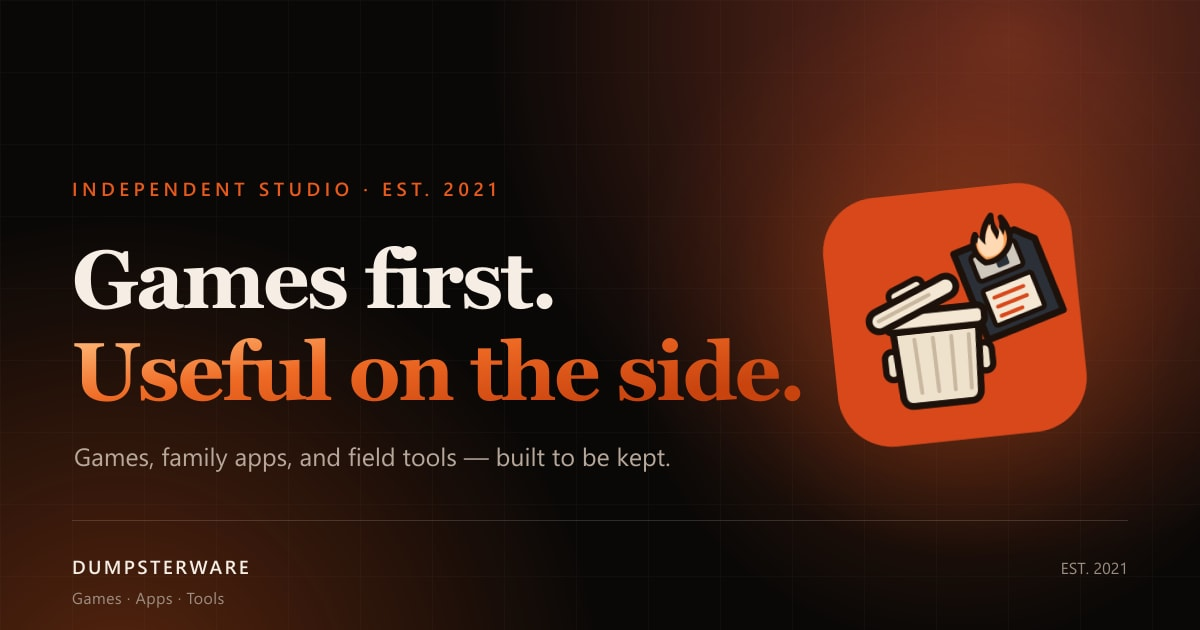
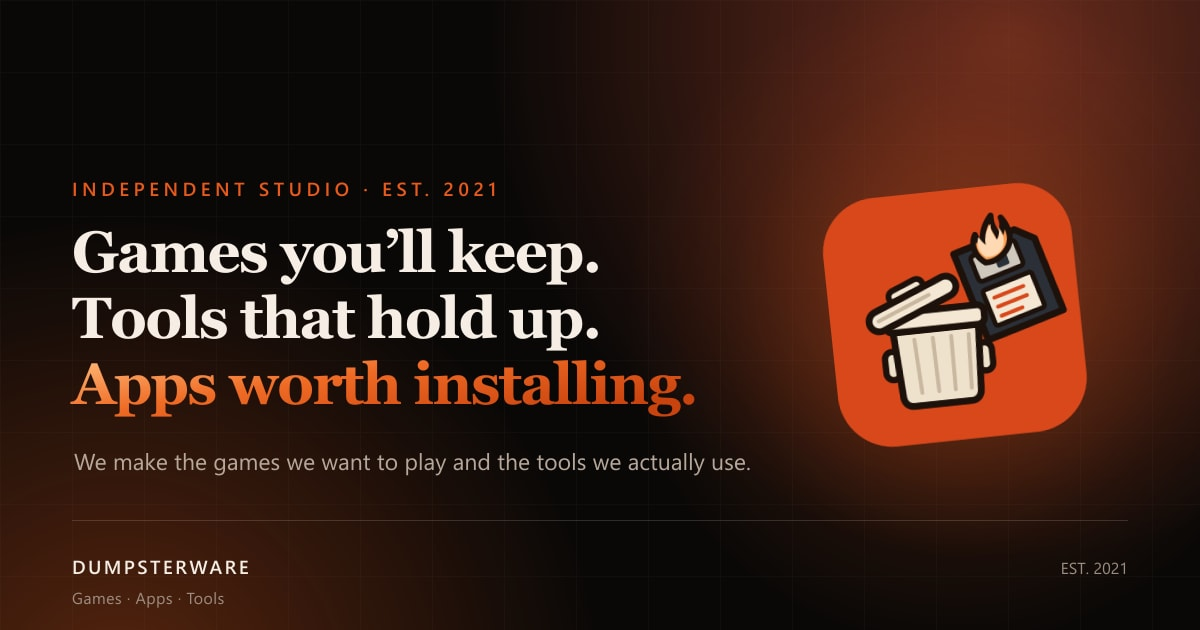
Refresh the studio positioning and division headlines

Changed region(s): [[0.0617, 0.3619, 0.6783, 0.6635], [0.0617, 0.6937, 0.6167, 0.754]]

diff --git a/home/index.html b/home/index.html
@@ -3,8 +3,8 @@
 <head>
   <meta charset="utf-8">
   <meta name="viewport" content="width=device-width, initial-scale=1">
-  <title>DumpsterWare — Games first, useful on the side</title>
-  <meta name="description" content="DumpsterWare is a small independent studio. Games first, with family apps and field tools when a silly idea turns out to be useful.">
+  <title>DumpsterWare — Games you'll keep. Tools that hold up.</title>
+  <meta name="description" content="DumpsterWare is a small independent studio making games you'll keep, tools that hold up, and apps worth installing.">
   <meta name="color-scheme" content="dark">
   <meta name="theme-color" content="#0a0807">
   <link rel="canonical" href="https://esotericryoushi.github.io/DumpsterWare.com/home/">
@@ -17,18 +17,18 @@
   <meta property="og:type" content="website">
   <meta property="og:site_name" content="DumpsterWare">
   <meta property="og:url" content="https://esotericryoushi.github.io/DumpsterWare.com/home/">
-  <meta property="og:title" content="DumpsterWare — Games first, useful on the side">
-  <meta property="og:description" content="A small independent studio. Games first, with apps and tools when they're useful.">
+  <meta property="og:title" content="DumpsterWare — Games you'll keep. Tools that hold up.">
+  <meta property="og:description" content="A small independent studio making games you'll keep, tools that hold up, and apps worth installing.">
   <meta property="og:image" content="https://esotericryoushi.github.io/DumpsterWare.com/assets/img/og-default.jpg">
   <meta property="og:image:type" content="image/jpeg">
   <meta property="og:image:width" content="1200">
   <meta property="og:image:height" content="630">
-  <meta property="og:image:alt" content="DumpsterWare — Games first. Useful on the side.">
+  <meta property="og:image:alt" content="DumpsterWare — Games you'll keep. Tools that hold up. Apps worth installing.">
   <meta name="twitter:card" content="summary_large_image">
-  <meta name="twitter:title" content="DumpsterWare — Games first, useful on the side">
-  <meta name="twitter:description" content="A small independent studio. Games first, with apps and tools when they're useful.">
+  <meta name="twitter:title" content="DumpsterWare — Games you'll keep. Tools that hold up.">
+  <meta name="twitter:description" content="A small independent studio making games you'll keep, tools that hold up, and apps worth installing.">
   <meta name="twitter:image" content="https://esotericryoushi.github.io/DumpsterWare.com/assets/img/og-default.jpg">
-  <meta name="twitter:image:alt" content="DumpsterWare — Games first. Useful on the side.">
+  <meta name="twitter:image:alt" content="DumpsterWare — Games you'll keep. Tools that hold up. Apps worth installing.">
 
   <script type="application/ld+json">
     {
@@ -37,7 +37,7 @@
       "name": "DumpsterWare",
       "url": "https://esotericryoushi.github.io/DumpsterWare.com/home/",
       "logo": "https://esotericryoushi.github.io/DumpsterWare.com/assets/img/logo-512.png",
-      "description": "A small independent studio. Games first, with family apps and field tools when they're useful.",
+      "description": "A small independent studio making games you'll keep, tools that hold up, and apps worth installing.",
       "foundingDate": "2021",
       "email": "DumpsterWare@gmail.com",
       "sameAs": ["https://github.com/EsotericRyoushi"]
@@ -79,8 +79,8 @@
       <div class="wrap hero-grid">
         <div class="hero-copy reveal">
           <p class="eyebrow"><span class="pulse" aria-hidden="true"></span>Independent studio · Est. 2021</p>
-          <h1>Games first.<br> <span class="grad">Useful on the side.</span></h1>
-          <p class="lede">DumpsterWare is a small studio that makes games because that's the fun part — and apps and tools when a silly idea turns out to be useful.</p>
+          <h1 class="hero-three">Games you'll keep.<br> Tools that hold up.<br> <span class="grad h1-kicker">Apps worth installing.</span></h1>
+          <p class="lede">We make the games we want to play and the tools we actually use — then share them with everyone else.</p>
           <div class="actions">
             <a class="btn btn-primary" href="#studio">
               Meet the studio
@@ -95,7 +95,7 @@
             <img src="../assets/img/icon-games.svg" alt="" width="46" height="46" loading="lazy" decoding="async">
             <span>
               <strong>Games</strong>
-              <small>Life-sim sandboxes with no finish line</small>
+              <small>Games worth a dumpster dive</small>
             </span>
             <span class="go">Visit
               <svg viewBox="0 0 20 20" aria-hidden="true"><path d="M4 10h11M11 5l5 5-5 5" fill="none" stroke="currentColor" stroke-width="2" stroke-linecap="round" stroke-linejoin="round"/></svg>
@@ -105,7 +105,7 @@
             <img src="../assets/img/app-are-we-there-yet.svg" alt="" width="46" height="46" loading="lazy" decoding="async">
             <span>
               <strong>Apps</strong>
-              <small>Family apps for the road and the kitchen table</small>
+              <small>Apps from the &ldquo;good dumpster&rdquo;</small>
             </span>
             <span class="go">Visit
               <svg viewBox="0 0 20 20" aria-hidden="true"><path d="M4 10h11M11 5l5 5-5 5" fill="none" stroke="currentColor" stroke-width="2" stroke-linecap="round" stroke-linejoin="round"/></svg>
@@ -115,7 +115,7 @@
             <img src="../assets/img/icon-tools.svg" alt="" width="46" height="46" loading="lazy" decoding="async">
             <span>
               <strong>Tools</strong>
-              <small>Field tools for the trades</small>
+              <small>Tools for dirty hands and clean money</small>
             </span>
             <span class="go">Visit
               <svg viewBox="0 0 20 20" aria-hidden="true"><path d="M4 10h11M11 5l5 5-5 5" fill="none" stroke="currentColor" stroke-width="2" stroke-linecap="round" stroke-linejoin="round"/></svg>

diff --git a/apps/index.html b/apps/index.html
@@ -65,7 +65,7 @@
       <div class="wrap hero-grid">
         <div class="hero-copy reveal">
           <p class="eyebrow"><span class="pulse" aria-hidden="true"></span>DumpsterWare Apps</p>
-          <h1>Apps for the<br> <span class="grad">back seat.</span></h1>
+          <h1 class="compact">We build what we'd use.<br> <span class="grad">Then we use it.</span></h1>
           <p class="lede">Family apps for the road, the kitchen table, and everywhere the signal drops. Built to be handed to a kid without a manual.</p>
           <div class="actions">
             <a class="btn btn-primary" href="#are-we-there-yet">

diff --git a/tools/index.html b/tools/index.html
@@ -65,7 +65,7 @@
       <div class="wrap hero-grid">
         <div class="hero-copy reveal">
           <p class="eyebrow"><span class="pulse" aria-hidden="true"></span>DumpsterWare Tools</p>
-          <h1>Tools for<br> <span class="grad">the trades.</span></h1>
+          <h1>Made for us.<br> <span class="grad">Useful to you.</span></h1>
           <p class="lede">Practical, offline-first tools for the job — the useful side of DumpsterWare. Built to survive a real workday, not a pitch deck.</p>
           <div class="actions">
             <a class="btn btn-primary" href="#emt-bender-buddy">

diff --git a/assets/css/pages.css b/assets/css/pages.css
@@ -74,6 +74,14 @@ html {
   letter-spacing: -0.03em;
 }
 
+.page-hero h1.hero-three {
+  font-size: clamp(2.6rem, 4.6vw, 3.7rem);
+}
+
+.page-hero h1.compact {
+  font-size: clamp(2.3rem, 4.5vw, 3.4rem);
+}
+
 .page-hero .lede {
   max-width: 56ch;
 }
@@ -782,6 +790,14 @@ html {
   .value-grid,
   .principles {
     grid-template-columns: 1fr;
+  }
+
+  .page-hero h1.hero-three {
+    font-size: clamp(1.9rem, 9.4vw, 2.5rem);
+  }
+
+  .page-hero h1.compact {
+    font-size: clamp(1.75rem, 8.8vw, 2.5rem);
   }
 
   .log-teaser-grid {

diff --git a/assets/css/site.css b/assets/css/site.css
@@ -261,6 +261,12 @@ ul {
   color: transparent;
 }
 
+.h1-kicker {
+  display: inline-block;
+  margin-top: 0.14em;
+  font-size: 0.84em;
+}
+
 .actions {
   display: flex;
   flex-wrap: wrap;
